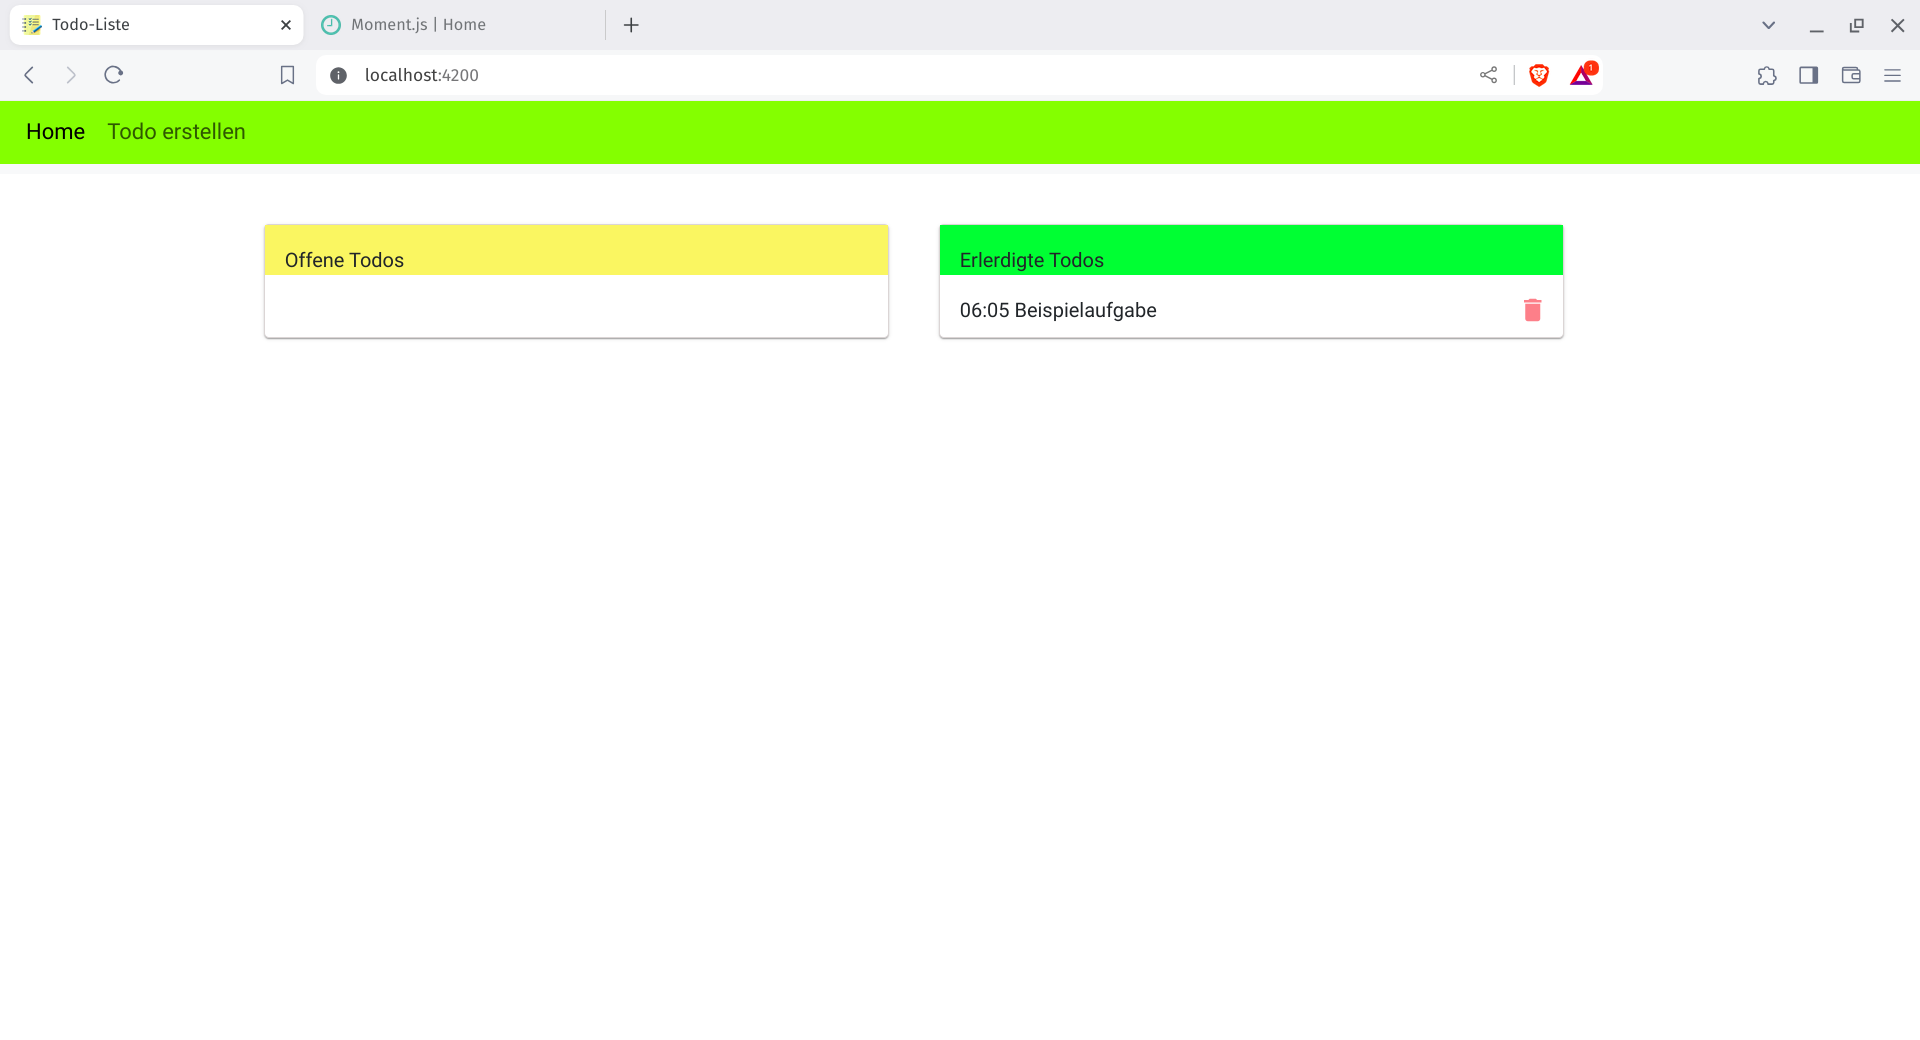
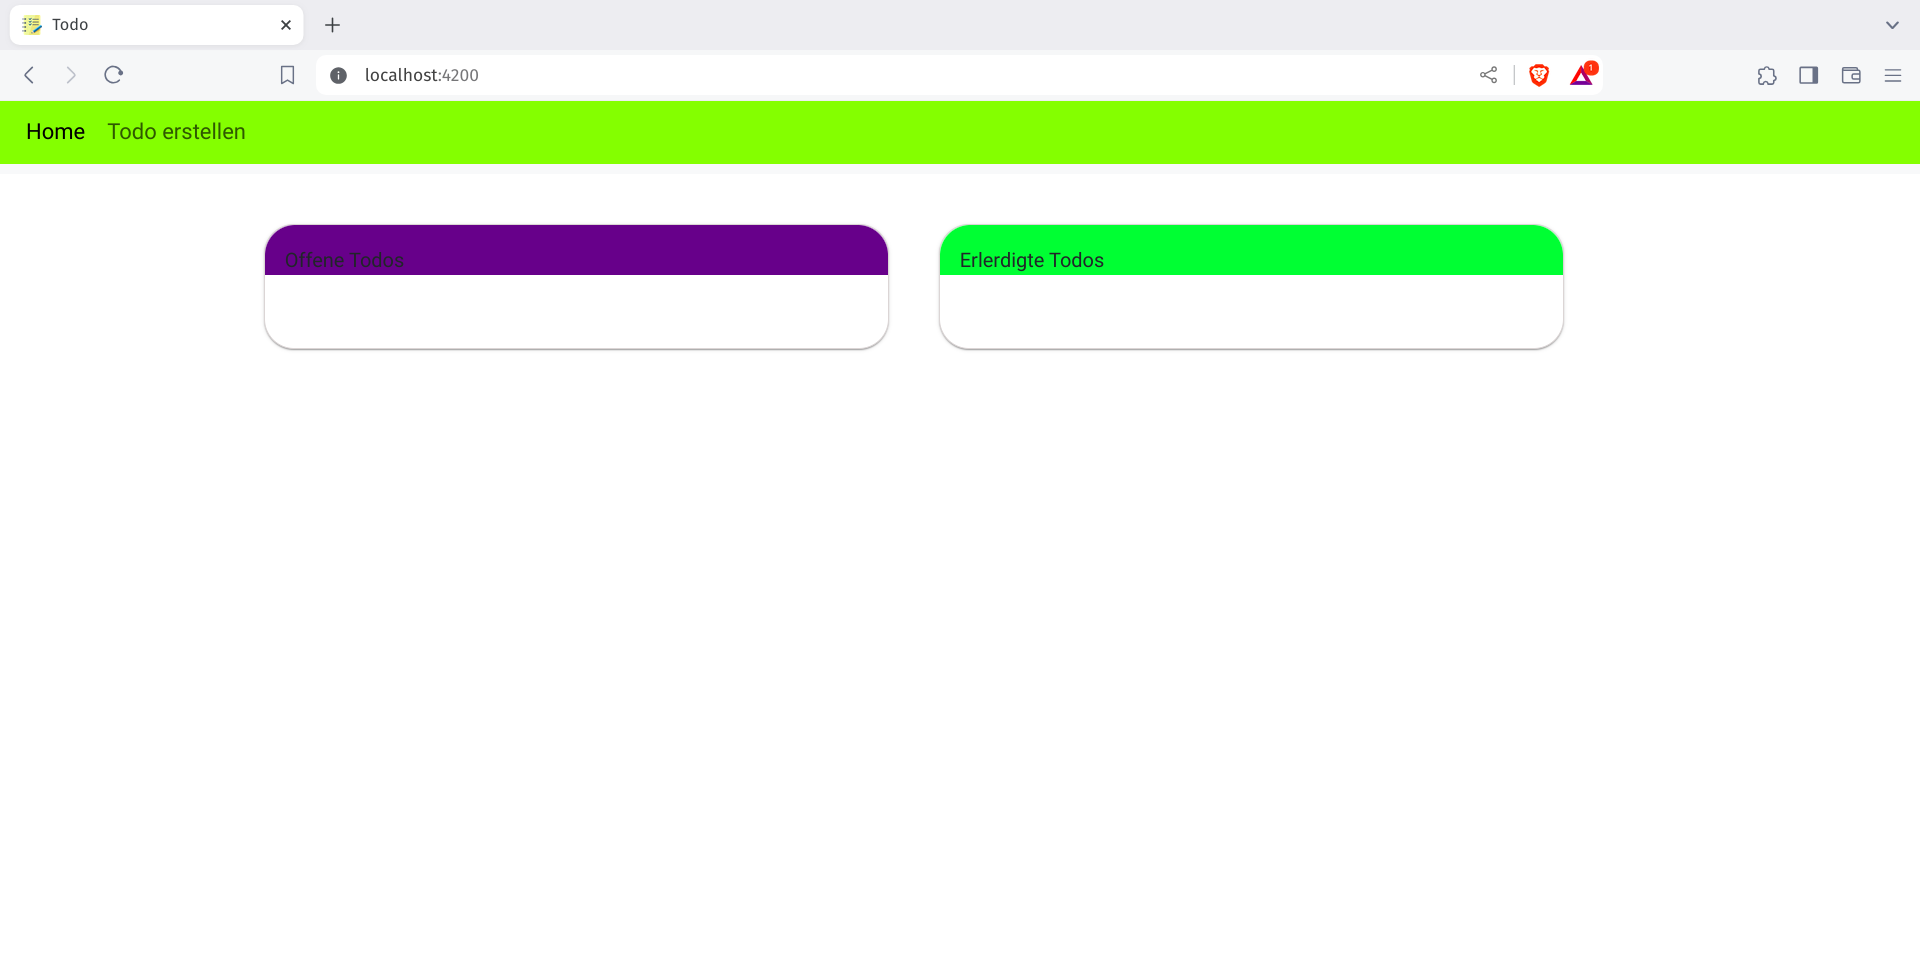
update

diff --git a/src/app/components/todolist/todolist.component.html b/src/app/components/todolist/todolist.component.html
@@ -1,34 +1,36 @@
 <div class="flex justify-center mt-10" cdkDropListGroup>
-    <mat-card class="mr-10">
-        <mat-card-header class="open-matcard-header"> Offene Todos</mat-card-header>
-        <div cdkDropList [cdkDropListData]="todo" class="example-list" (cdkDropListDropped)="drop($event)">
-            <div *ngFor="let item of todo">
-                <mat-card-content cdkDrag>
-                    {{formatTime(item.time)}}<span class="float-right">
-                        <button (click)="deleteTodo(item.id)" class="deletebt" title="Todo löschen">
-                            <mat-icon class="MatIconDelete">delete</mat-icon>
-                        </button></span> <span class="float-center"> {{ item.todo}} </span>
-                </mat-card-content>
+    <div>
+        <mat-card class="mr-10">
+            <mat-card-header class="open-matcard-header bg-purple-900 "> Offene Todos</mat-card-header>
+            <div cdkDropList [cdkDropListData]="todo" class="example-list" (cdkDropListDropped)="drop($event)">
+                <div *ngFor="let item of todo">
+                    <mat-card-content cdkDrag class="openContent">
+                        {{formatTime(item.time)}}<span class="float-right">
+                            <button (click)="deleteTodo(item.id)" class="deletebt" title="Todo löschen">
+                                <mat-icon class="MatIconDelete">delete</mat-icon>
+                            </button></span> <span class="float-center"> {{ item.todo}} </span>
+                    </mat-card-content>
+                </div>
             </div>
-        </div>
-    </mat-card>
-
-    <mat-card class="ml-0">
-        <mat-card-header class="done-matcard-header">Erlerdigte Todos</mat-card-header>
-        <div cdkDropList [cdkDropListData]="done" class="h-90" (cdkDropListDropped)="drop($event)">
-            <div *ngFor="let item of done">
-                <mat-card-content cdkDrop>
-                    {{formatTime(item.time)}} <span class="float-right">
-                        <button (click)="deleteTodo(item.id)" class="deletebt" title="Todo löschen">
-                            <mat-icon class="MatIconDelete">delete</mat-icon>
-                        </button></span> <span class="float-center"> {{ item.todo}} </span>
-                </mat-card-content>
-
+        </mat-card>
+    </div>
+    <div>
+        <mat-card class="ml-0">
+            <mat-card-header class="done-matcard-header">Erlerdigte Todos</mat-card-header>
+            <div cdkDropList [cdkDropListData]="done" class="cdkDropList" (cdkDropListDropped)="drop($event)">
+                <div *ngFor="let item of done">
+                    <mat-card-content cdkDrop class="doneContent">
+                        {{formatTime(item.time)}} <span class="float-right">
+                            <button (click)="deleteTodo(item.id)" class="deletebt" title="Todo löschen">
+                                <mat-icon class="MatIconDelete">delete</mat-icon>
+                            </button></span> <span class="float-center"> {{ item.todo}} </span>
+                    </mat-card-content>
+                </div>
             </div>
-        </div>
-    </mat-card>
+        </mat-card>
+    </div>
 
-    <button mat-button id="matbt" class="MatIconDoneBt" title="Änderungen bestätigen" (click)="markTodoAsDone()">
-        <mat-icon class="doneicon">done</mat-icon>
+    <button mat-button id="matbt" class="matDoneBt" title="Änderungen bestätigen" (click)="markTodoAsDone()">
+        <mat-icon [inline]="true" class="doneicon">done</mat-icon>
     </button><br>
 </div>

diff --git a/src/app/components/addtodo/addtodo.component.html b/src/app/components/addtodo/addtodo.component.html
@@ -1,24 +1,25 @@
 <div class="flex justify-center">
     <div class="block mt-10">
-        <h1 > Todo hinzufügen:</h1>
-<div class="mt-4">
-        <mat-form-field appearance="fill">
-            <mat-label>Todo *</mat-label>
-            <input matInput type="text" placeholder="Todo" [(ngModel)]="todos.todo">
-            <mat-icon matSuffix>create</mat-icon>
-        </mat-form-field>
+        <h1> Todo erstellen</h1>
+        <div class="mt-4">
+            <mat-form-field appearance="fill">
+                <mat-label>Todo *</mat-label>
+                <input matInput type="text" placeholder="Todo" [(ngModel)]="todos.todo">
+                <mat-icon matSuffix>create</mat-icon>
+            </mat-form-field>
 
-        <br>
+            <br>
 
-        <mat-form-field appearance="fill">
-            <mat-label>Uhrzeit *</mat-label>
-            <input matInput type="time" class="example-right-align" placeholder="placeholder" [(ngModel)]="todos.time">
-            <mat-icon matSuffix>access_alarm</mat-icon>
-        </mat-form-field>
-        
-        <br>
+            <mat-form-field appearance="fill">
+                <mat-label>Uhrzeit *</mat-label>
+                <input matInput type="time" class="example-right-align" placeholder="placeholder"
+                    [(ngModel)]="todos.time">
+                <mat-icon matSuffix>access_alarm</mat-icon>
+            </mat-form-field>
 
-        <button mat-button (click)="CreateNewTodo()"> <mat-icon class="maticon">send</mat-icon> </button>
-    </div>
+            <br>
+
+            <button class="float-right mr-2" mat-button (click)="CreateNewTodo()"> <mat-icon class="maticon">send</mat-icon> </button>
+        </div>
     </div>
 </div>

diff --git a/src/app/components/todolist/todolist.component.scss b/src/app/components/todolist/todolist.component.scss
@@ -1,28 +1,46 @@
 mat-card {
     width: 500px;
     border: 1px solid rgb(218, 213, 213);
-}
-mat-card-header{
-    height: 40px;
-}
-.h-90{
-    height: 50px;
+    border-radius: 24px;
+    min-height: 100px;
+
 }
 
-.open-matcard-header {
-    background-color: rgb(255, 233, 111);
+mat-card-header {
+    height: 40px;
+    border-top-left-radius: 24px;
+    border-top-right-radius: 24px;
+
 }
-.done-matcard-header{
+
+mat-card-content {
+    min-height: 50px;
+}
+
+.doneContent {
+    border-top: 1px solid greenyellow;
+
+}
+.cdkDropList{
+    min-height: 50px;
+}
+
+.openContent {
+    border-top: 1px solid plum;
+
+}
+
+
+
+.done-matcard-header {
     background-color: rgb(72, 248, 72);
 }
-body {
-    display: flex;
-}
 
-mat-card-content{
-    height: 50px;
-}
-.MatIconDelete,.deletebt{
+
+
+
+.MatIconDelete,
+.deletebt {
     max-height: 22px;
     height: 22px;
     width: 20px;
@@ -31,13 +49,17 @@ mat-card-content{
 
     color: rgb(243, 140, 140);
 }
-.MatIconDoneBt{
+
+.matDoneBt {
     background-color: greenyellow;
     height: 40px;
     margin-left: 10px;
     visibility: hidden;
-    
+    font-size: 27px;
 }
-.doneicon{
+
+.doneicon {
     margin-left: 10px;
+    font-size: 3100px;
+
 }

diff --git a/src/app/components/todolist/todolist.component.ts b/src/app/components/todolist/todolist.component.ts
@@ -61,7 +61,7 @@ export class TodolistComponent implements OnInit {
         event.currentIndex,
 
       );
-      document.getElementById("matbt")!.style.visibility = "visible"
+      this.markTodoAsDone()
 
     }
   }
@@ -71,7 +71,7 @@ export class TodolistComponent implements OnInit {
   }
   formatTime(time: any) {
     let local = moment()
-    local.locale('de');  
+    local.locale('de');
     let MomentTime = local.format('LT')      // en
 
     return MomentTime     // de

diff --git a/src/app/components/addtodo/addtodo.component.scss b/src/app/components/addtodo/addtodo.component.scss
@@ -1,15 +1,19 @@
-p{
+p {
     max-width: 200px;
 }
-mat-form-field{
-    max-width: 200px;
-}
-h1
-{
-font-size: 20px;}
 
-button{
-    background-color: rgb(69, 207, 51);
+mat-form-field {
+    max-width: 200px;
+}
+
+h1 {
+    font-size: 20px;
+    color: rgb(88, 169, 87);
+    margin-left: 30px;
+}
+
+button {
+    background-color: rgb(88, 169, 87);
     width: 50px;
     height: 40px;
 }

diff --git a/src/index.html b/src/index.html
@@ -2,7 +2,7 @@
 <html lang="en">
 <head>
   <meta charset="utf-8">
-  <title>Todo-Liste</title>
+  <title>Todo</title>
   <base href="/">
   <meta name="viewport" content="width=device-width, initial-scale=1">
   <link rel="icon" type="image/x-icon" href="todoicon.png">

diff --git a/src/styles.scss b/src/styles.scss
@@ -43,3 +43,4 @@ $AtodoNew-theme: mat.define-light-theme((
 
 html, body { height: 100%; }
 body { margin: 0; font-family: Roboto, "Helvetica Neue", sans-serif; }
+

diff --git a/src/app/app.component.html b/src/app/app.component.html
@@ -1,2 +1,4 @@
+<div>
 <app-navbar></app-navbar>
 <router-outlet></router-outlet>
+</div>
